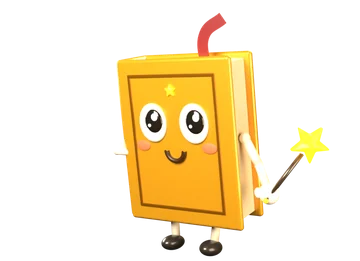
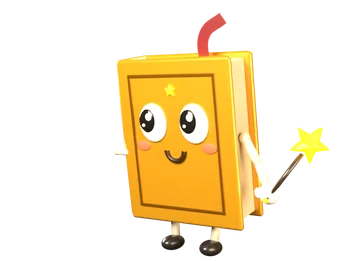
Kitap perisi küçültüldü ve yönü düzeltildi
- Masaüstü 144 → 112 px, telefon 100 → 84 px
- Dururken ve kaydırırken kutusuna bakar (kaydırmadaki küçük kıpırtılarla dönmez); yalnızca gerçek uçuşta gittiği yöne döner, dönüş yumuşak
- "Düşün" pozunun gözleri gövdesiyle aynı yöne (sola) bakacak şekilde yeniden çizildi

Claude-Session: https://claude.ai/code/session_016jxJxK4dnTMYkiSJfzshfK

Changed region(s): [[0.4889, 0.3985, 0.5806, 0.5211], [0.3667, 0.3985, 0.4583, 0.5211]]

diff --git a/mst-randevu/assets/uygulama.js b/mst-randevu/assets/uygulama.js
@@ -235,7 +235,7 @@
     // mod: soru (cevap bekliyor) · rehber (bölüm bölüm yanında) · gidiyor (uçup çıkıyor) · yok
     var mod = 'yok', aktif = null, bekleyen = null, yazi = 0, gizle = 0, gosterildi = new Set(), dongu = false;
     var W = window.innerWidth, H = window.innerHeight;
-    var konum = { x: W + 60, y: H * 0.5 }, gecis = null, turum = null, bakis = 1, egimAci = 0, sonTur = performance.now();
+    var konum = { x: W + 60, y: H * 0.5 }, gecis = null, turum = null, bakis = 1, yonAn = 1, egimAci = 0, sonTur = performance.now();
     var iz = null;
 
     function hatirla(d) { try { sessionStorage.setItem('mst_peri', d); } catch (e) { /* depolama kapalı */ } }
@@ -283,7 +283,7 @@
 
     function ciz(x, y, aci, yon) {
       kutu.style.transform = 'translate3d(' + x.toFixed(1) + 'px,' + y.toFixed(1) + 'px,0)';
-      govde.style.transform = 'rotate(' + aci.toFixed(2) + 'deg) scaleX(' + yon + ')';
+      govde.style.transform = 'rotate(' + aci.toFixed(2) + 'deg) scaleX(' + (+yon).toFixed(3) + ')';
     }
     // Balon perinin üstünde (yer yoksa altında) açılır ve ekranın dışına taşmaz; kuyruğu periyi gösterir
     function balonYerlestir() {
@@ -369,12 +369,23 @@
         ucuyor = true;
         if (v >= 1) { turum = null; sonTur = t; }
       }
-      if (ucuyor && Math.abs(dx) > 0.5) bakis = dx < 0 ? 1 : -1; // "göster" pozu sola bakar; sağa giderken aynala
-      else if (!ucuyor && h.ex) bakis = h.ex < x + boy().w / 2 ? 1 : -1; // durunca kutuya baksın
+      // Yön: tüm pozlar sola dönük çizildi; sağa bakması gerekince aynalanır.
+      // Gerçek uçuşta (bölüm değişimi, tur) gittiği yöne; dururken ve kutuyu takip ederken kutusuna,
+      // kutusu tam altındaysa sayfanın ortasına bakar (kaydırmadaki küçük kıpırtılarla dönmez)
+      var ucusta = gecis || turum, merkez = x + boy().w / 2;
+      if (ucusta) {
+        if (Math.abs(dx) > 1.5) bakis = dx < 0 ? 1 : -1;
+      } else {
+        var hedefX = h.ex || W / 2;
+        if (Math.abs(hedefX - merkez) < 30) hedefX = W / 2;
+        if (Math.abs(hedefX - merkez) > 12) bakis = hedefX < merkez ? 1 : -1;
+      }
+      yonAn += (bakis - yonAn) * 0.18; // dönüşü yumuşat (anlık aynalama yerine döner gibi)
+      if (Math.abs(yonAn) < 0.08) yonAn = yonAn < 0 ? -0.08 : 0.08;
       kutu.classList.toggle('is-ucuyor', ucuyor);
-      var s = t / 1000;
-      egimAci += (Math.max(-18, Math.min(18, dx * 1.2)) + Math.sin(s * 1.7) * 3 - egimAci) * 0.12;
-      ciz(x + tx + Math.sin(s * 1.3) * 5, y + ty + Math.sin(s * 2.1) * 4, egimAci, bakis);
+      var s = t / 1000, egimHedef = ucusta ? Math.max(-18, Math.min(18, dx * 1.2)) : 0;
+      egimAci += (egimHedef + Math.sin(s * 1.7) * 3 - egimAci) * 0.12;
+      ciz(x + tx + Math.sin(s * 1.3) * 4, y + ty + Math.sin(s * 2.1) * 3, egimAci, yonAn);
       if (mod === 'rehber' && bekleyen && !gecis) {
         if (bekleyen !== aktif) bekleyen = null;
         else if (h.gorunur) { ilkKezSoyle(bekleyen); bekleyen = null; }
@@ -388,7 +399,9 @@
     }
     function sabitCiz() {
       if (!azHareket || mod === 'yok') return;
-      var h = hedefNokta(); konum = h; ciz(h.x, h.y, 0, 1);
+      var h = hedefNokta(), hx = h.ex || W / 2, m = h.x + boy().w / 2;
+      if (Math.abs(hx - m) < 30) hx = W / 2;
+      konum = h; ciz(h.x, h.y, 0, hx < m ? 1 : -1);
       if (kutu.classList.contains('is-balon')) balonYerlestir();
     }
 
@@ -424,7 +437,7 @@
           if (iz) iz.patla(24);
           konus(SORU, 0, function () { secim.hidden = false; balonYerlestir(); });
         };
-        if (azHareket) { sabitCiz(); sor(); } else { ciz(konum.x, konum.y, 0, 1); donguBaslat(); uc(sor); }
+        if (azHareket) { sabitCiz(); sor(); } else { ciz(konum.x, konum.y, 0, yonAn); donguBaslat(); uc(sor); }
       } else {
         var b = aktif; aktif = null; sec(b);
         if (!azHareket) donguBaslat();

diff --git a/mst-randevu/assets/uygulama.css b/mst-randevu/assets/uygulama.css
@@ -458,7 +458,7 @@ html { scroll-behavior: smooth; }
 }
 .uyg-peri[hidden] { display: none; }
 .uyg-peri__govde {
-  pointer-events: auto; position: relative; display: block; width: 144px; height: 104px; padding: 0; margin: 0;
+  pointer-events: auto; position: relative; display: block; width: 112px; height: 81px; padding: 0; margin: 0;
   border: 0; background: none; cursor: pointer; -webkit-tap-highlight-color: transparent;
 }
 .uyg-peri__govde:focus-visible { outline: 2px solid var(--mst-altin, #dc9814); outline-offset: 4px; border-radius: 20px; }
@@ -511,9 +511,9 @@ html { scroll-behavior: smooth; }
 .uyg-peri__kapat:hover, .uyg-peri__kapat:focus-visible { background: rgba(0, 0, 0, .07); color: #222; }
 /* Perinin üstündeki kapatma düğmesi: her zaman görünür */
 .uyg-peri__x {
-  pointer-events: auto; position: absolute; top: 2px; right: 10px; width: 24px; height: 24px; padding: 0;
+  pointer-events: auto; position: absolute; top: -4px; right: 4px; width: 22px; height: 22px; padding: 0;
   border: 1px solid rgba(220, 152, 20, .7); border-radius: 50%; background: rgba(26, 26, 26, .82); color: #fff;
-  font-size: 16px; line-height: 21px; text-align: center; cursor: pointer; opacity: .8;
+  font-size: 15px; line-height: 19px; text-align: center; cursor: pointer; opacity: .8;
   box-shadow: 0 2px 8px rgba(0, 0, 0, .3); transition: opacity .2s, transform .2s;
 }
 .uyg-peri__x:hover, .uyg-peri__x:focus-visible { opacity: 1; transform: scale(1.12); outline: none; }
@@ -546,8 +546,8 @@ html { scroll-behavior: smooth; }
 @keyframes uyg-peri-cagir-gel { from { opacity: 0; transform: scale(.4); } to { opacity: 1; transform: none; } }
 
 @media (max-width: 640px) {
-  .uyg-peri__govde { width: 100px; height: 72px; }
-  .uyg-peri__x { top: 0; right: 4px; width: 22px; height: 22px; font-size: 15px; line-height: 19px; }
+  .uyg-peri__govde { width: 84px; height: 61px; }
+  .uyg-peri__x { top: -6px; right: 0; width: 20px; height: 20px; font-size: 14px; line-height: 17px; }
   .uyg-peri__balon { max-width: min(230px, calc(100vw - 24px)); font-size: 13px; padding: 10px 32px 10px 13px; }
 }
 @media (prefers-reduced-motion: reduce) {

diff --git a/araclar/peri-blender.py b/araclar/peri-blender.py
@@ -279,7 +279,7 @@ isik('kontur2', (-2.4, 2.6, 0.8), 500, 2.0, '#fff1d6')
 POZLAR = {
     'selam': dict(L=(35, 10, -15), R=(150, 5, -35), asa=('L', (-25,)), yuz='acik', bak=(0, 0), govde=(0, 0, -30), kanat=1.0),
     'goster': dict(L=(88, 18, -8), R=(22, 5, -20), asa=('L', (-80,)), yuz='gulus', bak=(-0.035, 0.005), govde=(0, 7, -26), kanat=0.8),
-    'dusun': dict(L=(30, 60, -125), R=(30, 5, -10), asa=('R', (35,)), yuz='gulus', bak=(0.03, 0.04), govde=(0, -6, -32), kanat=0.6),
+    'dusun': dict(L=(30, 60, -125), R=(30, 5, -10), asa=('R', (35,)), yuz='gulus', bak=(-0.03, 0.04), govde=(0, -6, -32), kanat=0.6),
     'sevinc': dict(L=(150, 5, 10), R=(150, 5, 10), asa=('R', (15,)), yuz='mutlu_acik', bak=(0, 0), govde=(0, 0, -28), kanat=1.3),
     'goz_kirp': dict(L=(40, 10, -20), R=(125, 25, -60), asa=('R', (30,)), yuz='kirp', bak=(0, 0), govde=(0, -5, -32), kanat=1.0),
 }
